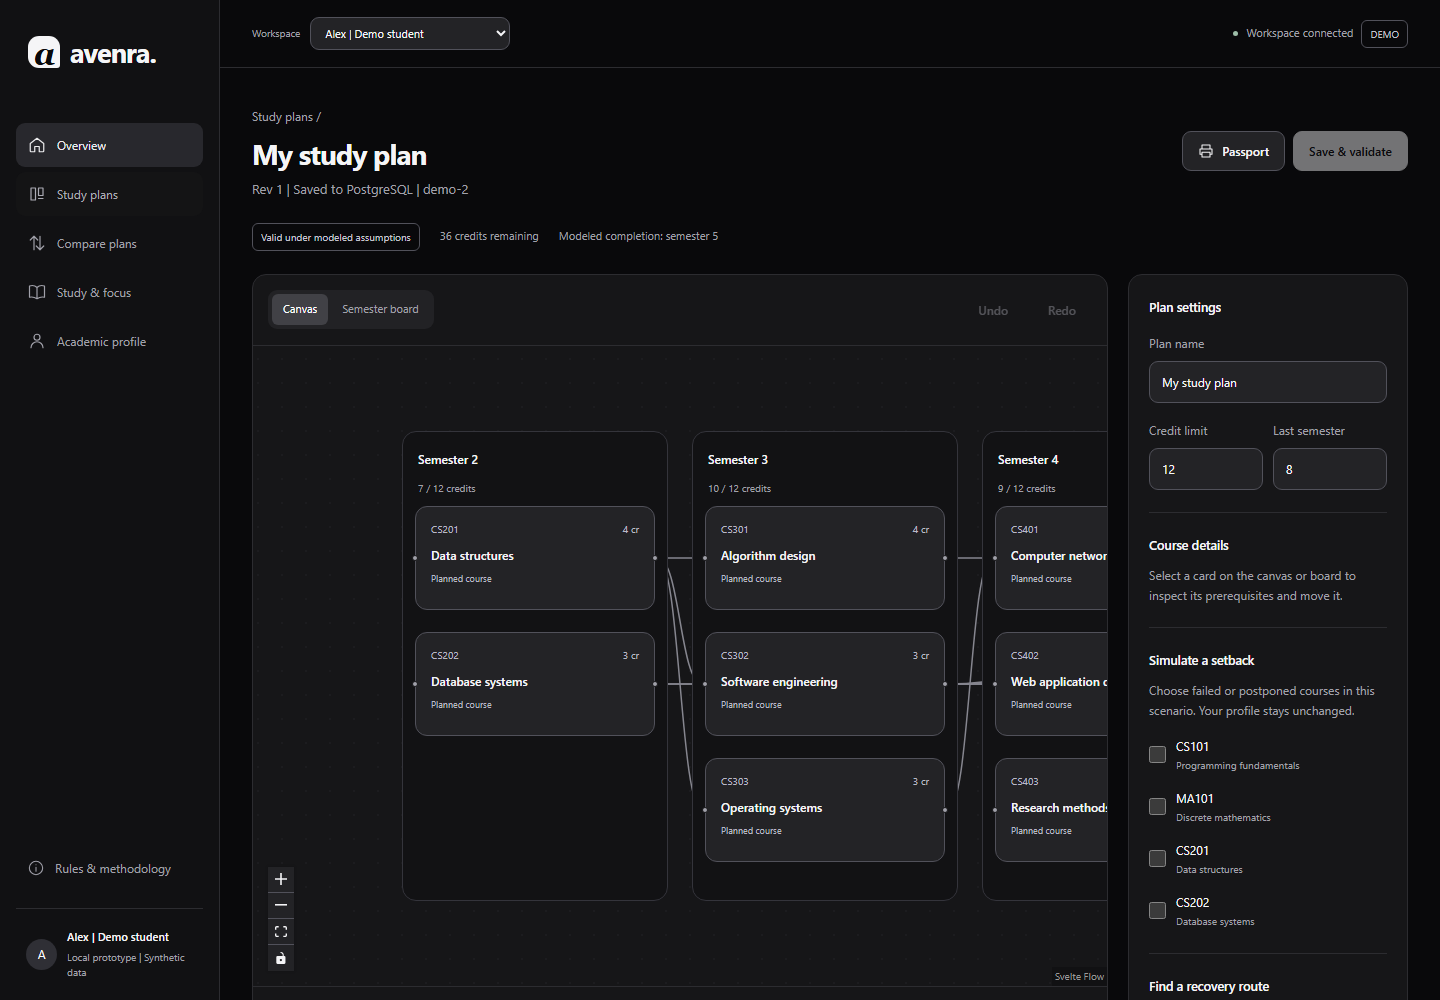
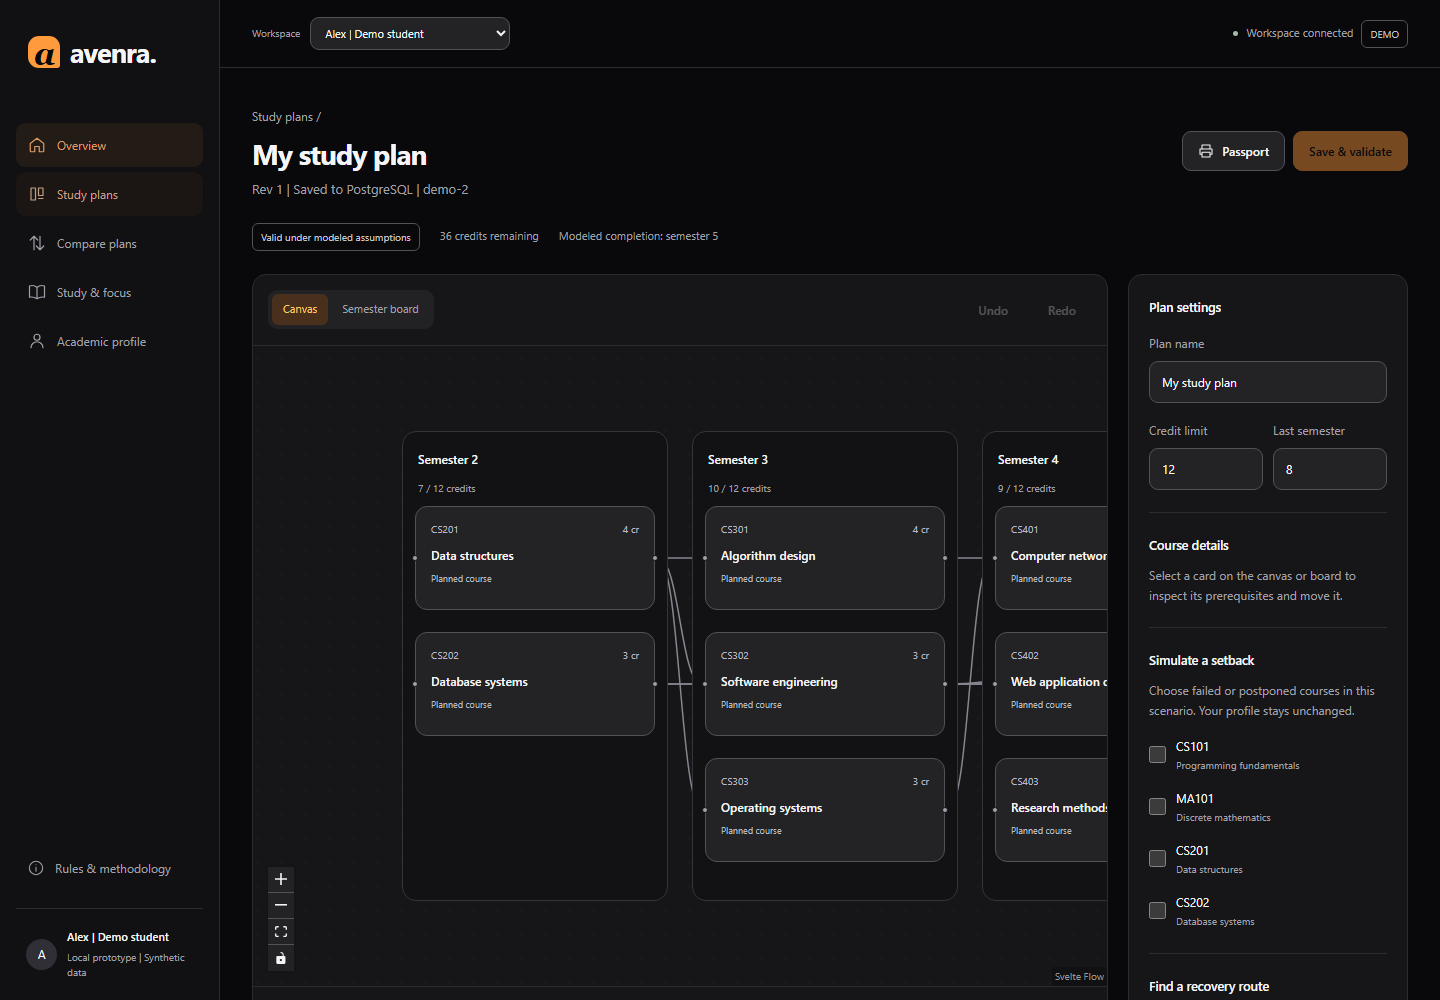
style(web): apply orange and amber brand accents

diff --git a/apps/web/src/app.css b/apps/web/src/app.css
@@ -13,6 +13,10 @@
   --border-strong: #51515a;
   --edge: #86868f;
   --canvas-dot: #35353b;
+  --accent: #ff9a3d;
+  --accent-strong: #ff6a00;
+  --accent-hover: #ffc966;
+  --accent-soft: #2d2118;
   font-family:
     -apple-system, BlinkMacSystemFont, 'SF Pro Text', 'Segoe UI', sans-serif;
   color: var(--text-primary);
@@ -28,7 +32,7 @@ button {
 }
 button:focus-visible,
 a:focus-visible {
-  outline: 2px solid var(--text-primary);
+  outline: 2px solid var(--accent);
   outline-offset: 4px;
 }
 .svelte-flow__node {
@@ -36,8 +40,8 @@ a:focus-visible {
 }
 
 ::selection {
-  background: #51515a;
-  color: #fff;
+  background: var(--accent);
+  color: #111113;
 }
 
 * {
@@ -53,7 +57,7 @@ a:focus-visible {
   --xy-controls-button-border-color: var(--border-strong);
   --xy-handle-background-color: var(--text-secondary);
   --xy-handle-border-color: var(--surface-panel);
-  --xy-node-boxshadow-selected: 0 0 0 2px var(--text-primary);
+  --xy-node-boxshadow-selected: 0 0 0 2px var(--accent);
   --xy-attribution-background-color: var(--surface-sidebar);
 }
 
@@ -86,13 +90,13 @@ textarea {
 input[type='checkbox'] {
   width: 17px;
   height: 17px;
-  accent-color: #e5e5e9;
+  accent-color: var(--accent);
   flex-shrink: 0;
 }
 input:focus-visible,
 select:focus-visible,
 textarea:focus-visible {
-  outline: 2px solid #d4d4da;
+  outline: 2px solid var(--accent);
   outline-offset: 3px;
 }
 input::placeholder,
@@ -162,7 +166,7 @@ p {
   margin: 0 12px 50px;
 }
 .logo > span {
-  background: var(--text-primary);
+  background: var(--accent);
   color: var(--surface-base);
   width: 32px;
   height: 32px;
@@ -197,8 +201,8 @@ p {
   color: var(--text-primary);
 }
 .app-sidebar nav a.active {
-  background: var(--surface-selected);
-  color: var(--text-primary);
+  background: var(--accent-soft);
+  color: var(--accent);
 }
 .sidebar-bottom {
   margin-top: auto;
@@ -309,12 +313,12 @@ main {
   background: #303035;
 }
 .button.primary {
-  background: #f5f5f7;
+  background: var(--accent);
   color: #111113;
-  border-color: #f5f5f7;
+  border-color: var(--accent);
 }
 .button.primary:hover:not(:disabled) {
-  background: #dcdce2;
+  background: var(--accent-hover);
 }
 .button.subtle {
   background: transparent;
@@ -329,7 +333,7 @@ main {
   align-items: center;
   gap: 8px;
   font-size: 12px;
-  color: #dedee5;
+  color: var(--accent-hover);
   text-underline-offset: 4px;
 }
 .text-link:hover {
@@ -412,11 +416,11 @@ progress::-webkit-progress-bar {
   background: #343439;
 }
 progress::-webkit-progress-value {
-  background: #e0e0e8;
+  background: var(--accent);
   border-radius: 4px;
 }
 progress::-moz-progress-bar {
-  background: #e0e0e8;
+  background: var(--accent);
 }
 .meta-row {
   display: flex;
@@ -591,8 +595,8 @@ progress::-moz-progress-bar {
   border-radius: 6px;
 }
 .segmented button.chosen {
-  background: #414146;
-  color: #fff;
+  background: #49301d;
+  color: var(--accent-hover);
 }
 .form-grid {
   display: grid;
@@ -815,6 +819,12 @@ td {
 }
 .course-node.failed small {
   color: #edc18b;
+}
+.svelte-flow__node.selected .course-node {
+  border-color: var(--accent);
+}
+.svelte-flow__node.selected .svelte-flow__handle {
+  background: var(--accent);
 }
 .semester-node {
   height: 100%;

diff --git a/AGENTS.md b/AGENTS.md
@@ -24,7 +24,7 @@ See README for environment setup, dependency installation, migrations, and shutd
 
 ## Coding Style & Naming Conventions
 
-Use two-space indentation in TypeScript/Svelte and four spaces in Python. Use PascalCase components and snake_case Python modules/functions. Keep academic assignments separate from canvas coordinates. Preserve the monochrome dark theme and use `|` instead of long dashes in UI text. Use `pnpm format:check` and Ruff for formatting/linting.
+Use two-space indentation in TypeScript/Svelte and four spaces in Python. Use PascalCase components and snake_case Python modules/functions. Keep academic assignments separate from canvas coordinates. Preserve the dark theme with orange/amber brand accents and use `|` instead of long dashes in UI text. Use `pnpm format:check` and Ruff for formatting/linting.
 
 ## Testing Guidelines
 
